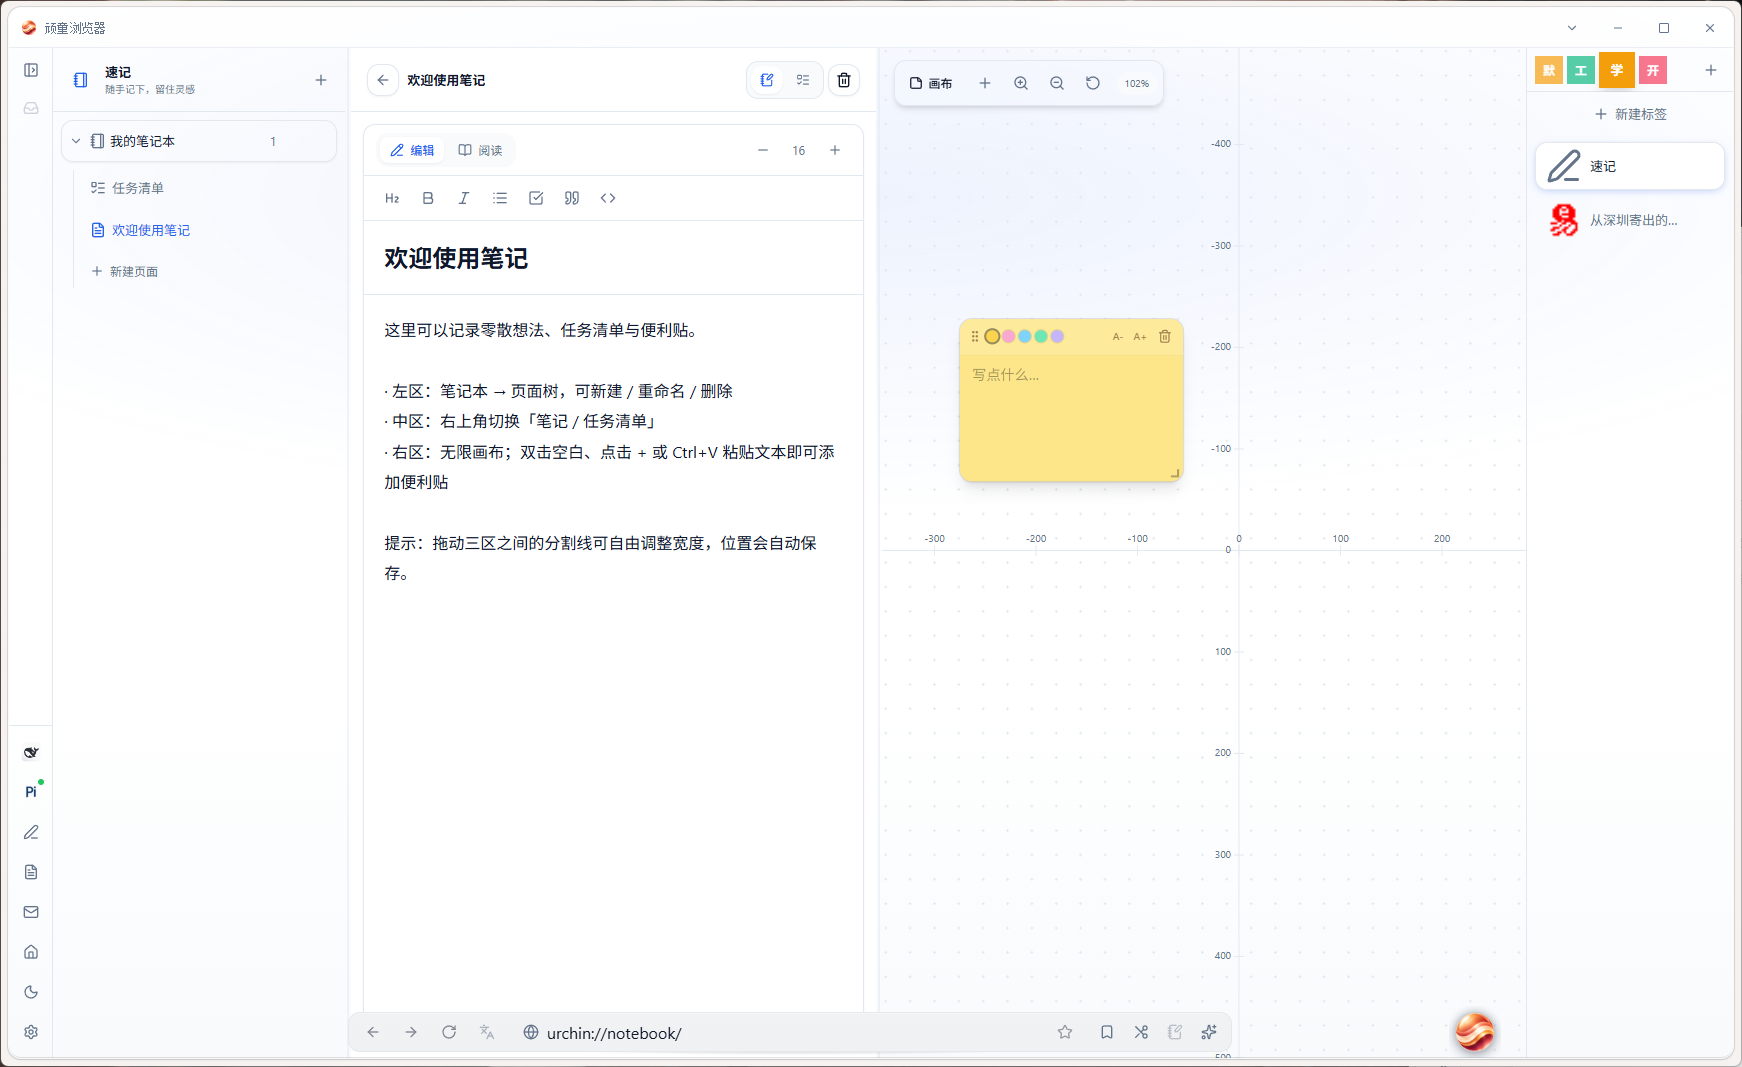
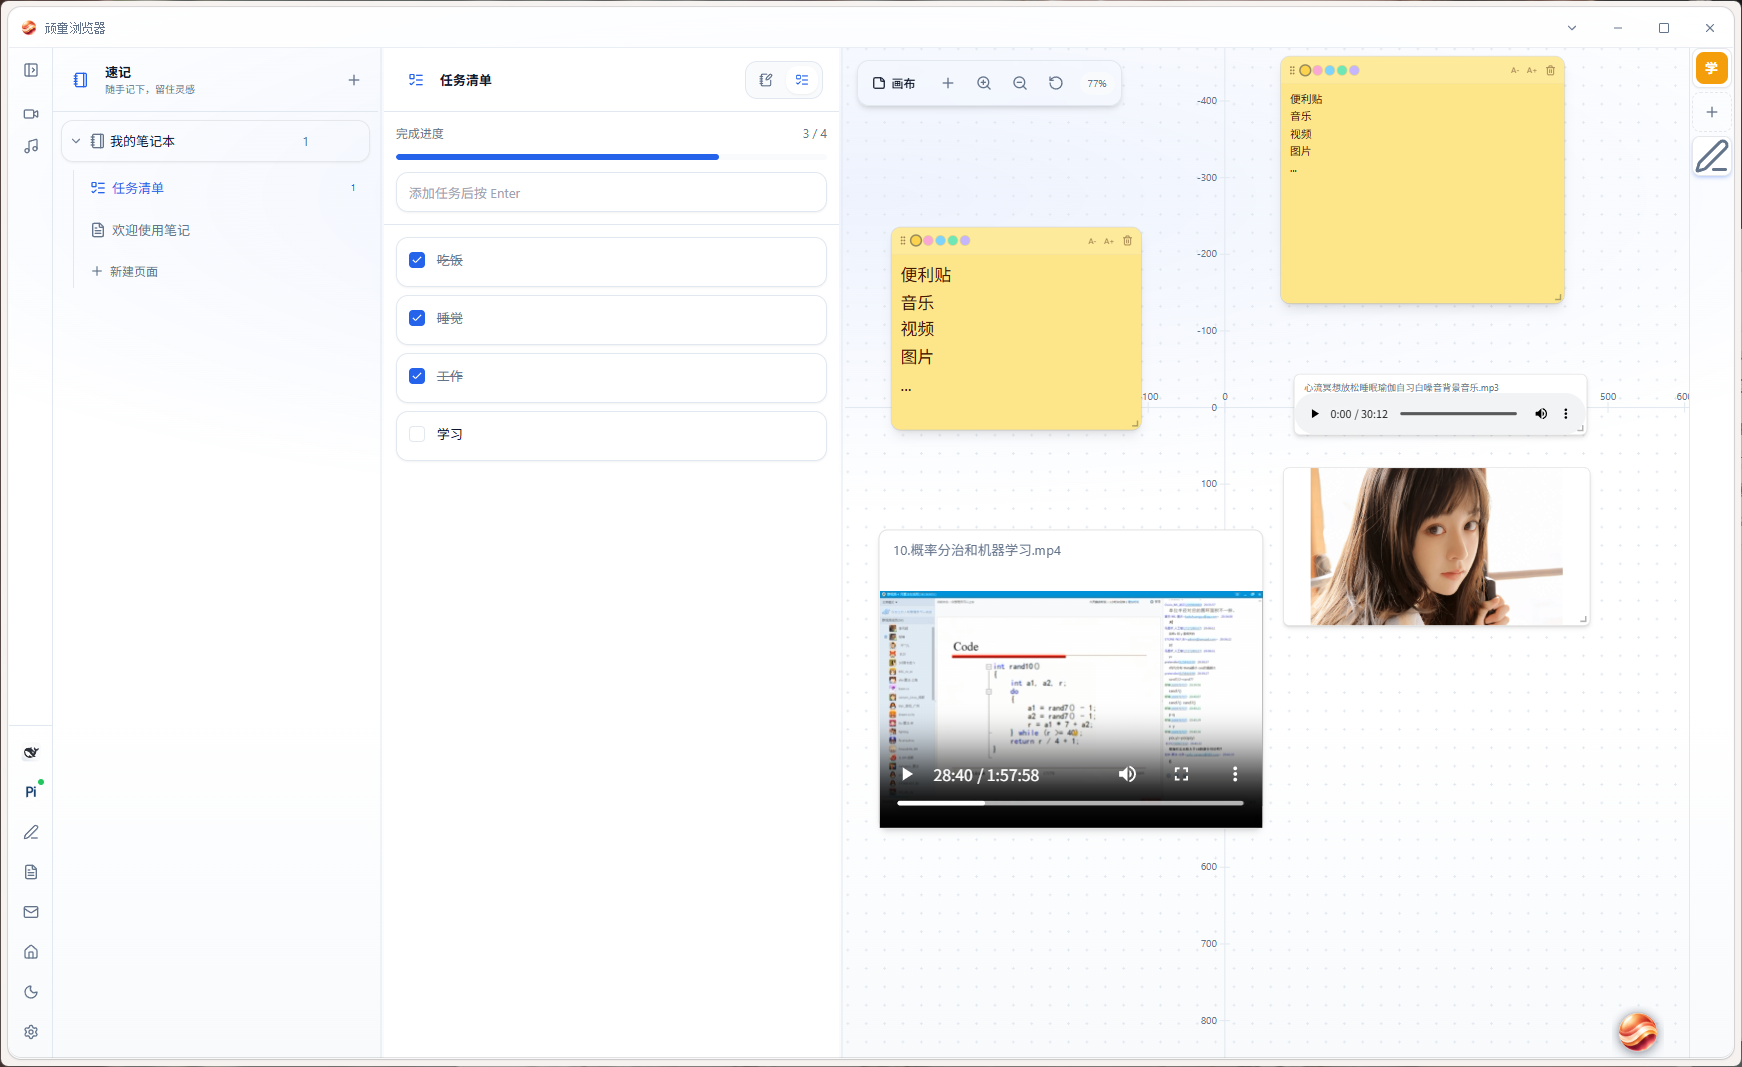
docs: replace notebook and canvas showcase screenshot
Model: GPT-6 (Codex)
Trigger: 用户指定用 20261115-232421.png 替换速记画布宣传图
Loop: 1

diff --git a/README.md b/README.md
@@ -36,8 +36,8 @@
   <tr>
     <td width="50%">
       <strong>速记与画布</strong><br />
-      笔记本、Markdown 编辑和便利贴画布并排，随手记录与整理想法。
-      <a href="./docs/screenshots/05-notebook-canvas.png"><img src="./docs/screenshots/05-notebook-canvas.png" alt="速记三栏布局：笔记本、Markdown 编辑器与便利贴画布" width="100%" /></a>
+      笔记本、任务清单与多媒体画布并排，集中整理文字、图片和音视频素材。
+      <a href="./docs/screenshots/05-notebook-canvas.png"><img src="./docs/screenshots/05-notebook-canvas.png" alt="速记三栏布局：笔记本、任务清单与包含便利贴、图片和音视频的画布" width="100%" /></a>
     </td>
     <td width="50%">
       <strong>浏览与中转区</strong><br />

diff --git a/docs/screenshots/README.md b/docs/screenshots/README.md
@@ -12,7 +12,7 @@
 | 02-workspaces.png | 工作区总览 | 20261115-231505.png |
 | 03-pi-workbench.png | Pi 编程工作台（已遮盖令牌） | 20261115-230628.png |
 | 04-deepseek-harness.png | DeepSeek Harness | 20261115-230713.png |
-| 05-notebook-canvas.png | 速记与画布 | 20261115-231905.png |
+| 05-notebook-canvas.png | 速记与画布 | 20261115-232421.png |
 | 06-transit-panel.png | 网页阅读与中转区 | 20261115-232701.png |
 | 07-mail.png | 邮箱连接页 | 20261115-232538.png |
 | 08-settings.png | 通用设置 | 20261115-230516.png |
